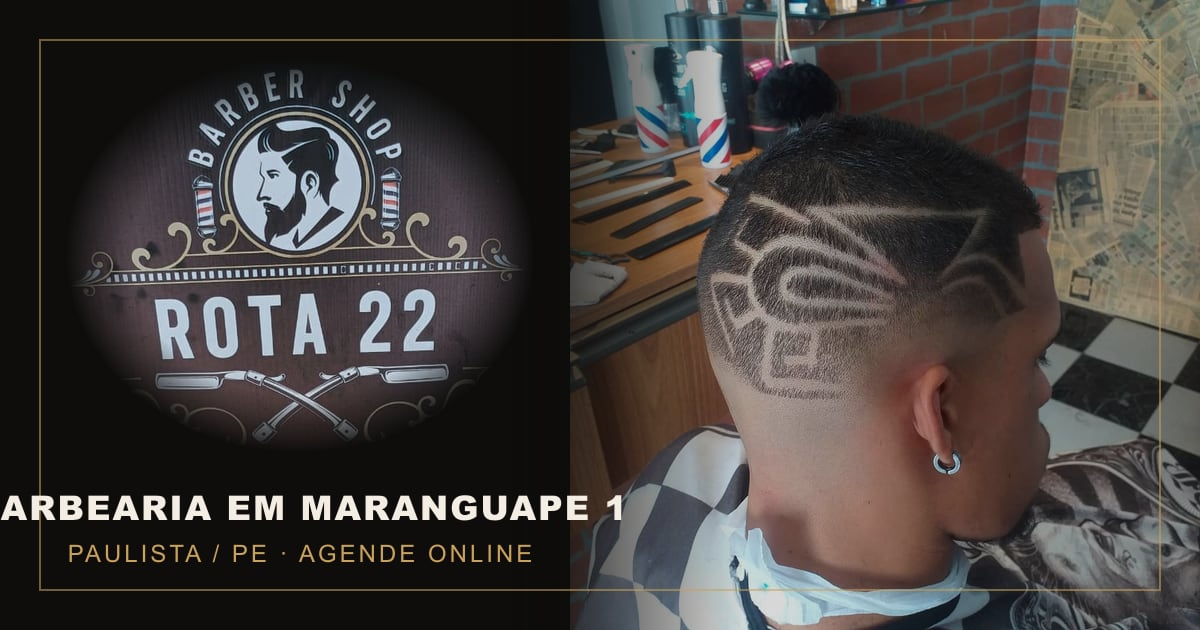
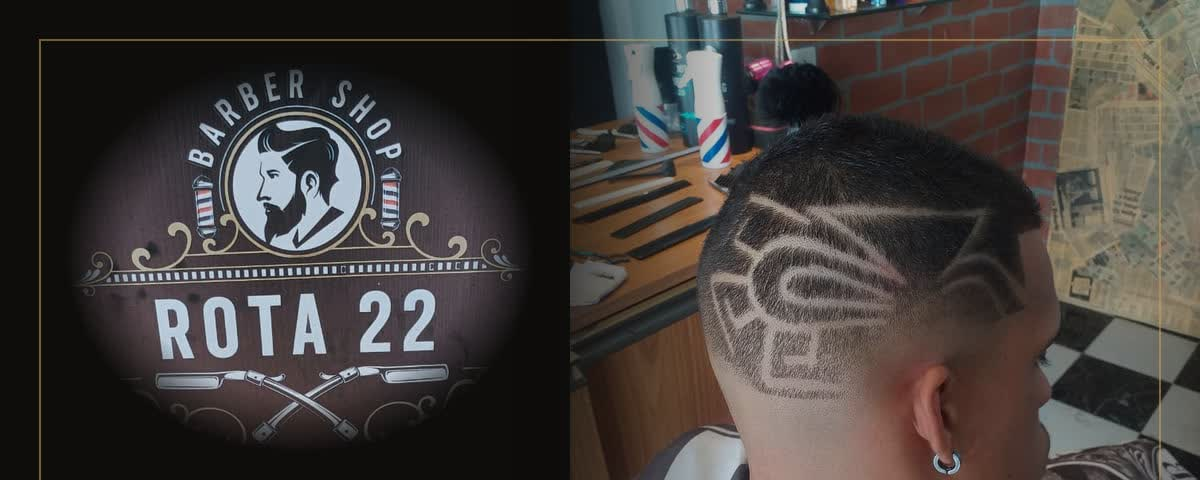
Redesign visual: paleta cinza+roxo, tags do hero focadas em resultado
- Troca o accent cyan por roxo #8b5cf6 (mesmo roxo já padrão do
  conteúdo da Larre.dev) sobre fundo cinza neutro, no lugar do
  azul-marinho + cyan neon anterior
- Reduz cursor customizado e densidade das partículas de fundo
- Tags flutuantes do hero deixam de mostrar stack técnica (JS/CSS/
  HTML/UI-UX) e passam a mostrar resultado pro negócio (+Vendas/
  +Agenda/+Clientes/+Presença)
- Destaque de resultado nos cards de projeto fica mais forte
  (maior, em negrito)
- Recorta a capa do Rota 22 pra remover a faixa de texto cortada
  ("ARBEARIA" em vez de "BARBEARIA")
- Reescreve a descrição do Rota 22 focada em resultado, não em
  feature técnica (tirado "painel administrativo completo")

diff --git a/css/style.css b/css/style.css
@@ -1,14 +1,14 @@
 /* ========== VARIÁVEIS ========== */
 :root {
-  --neon: #00e5ff;
-  --neon-dim: rgba(0, 229, 255, 0.15);
-  --neon-glow: 0 0 20px rgba(0, 229, 255, 0.5), 0 0 60px rgba(0, 229, 255, 0.2);
-  --bg: #050810;
-  --bg-2: #080d18;
+  --neon: #8b5cf6;
+  --neon-dim: rgba(139, 92, 246, 0.15);
+  --neon-glow: 0 0 20px rgba(139, 92, 246, 0.45), 0 0 60px rgba(139, 92, 246, 0.18);
+  --bg: #0e0e12;
+  --bg-2: #18181c;
   --bg-card: rgba(255, 255, 255, 0.03);
-  --bg-card-hover: rgba(0, 229, 255, 0.05);
-  --border: rgba(255, 255, 255, 0.07);
-  --border-neon: rgba(0, 229, 255, 0.3);
+  --bg-card-hover: rgba(139, 92, 246, 0.06);
+  --border: rgba(255, 255, 255, 0.08);
+  --border-neon: rgba(139, 92, 246, 0.35);
   --text: #e8eaf0;
   --text-muted: #6b7280;
   --text-dim: #9ca3af;
@@ -22,18 +22,18 @@
 
 /* LIGHT THEME */
 html[data-theme="light"] {
-  --bg: #f0f4ff;
-  --bg-2: #e8eeff;
+  --bg: #f4f4f6;
+  --bg-2: #e9e9ed;
   --bg-card: rgba(255, 255, 255, 0.8);
-  --bg-card-hover: rgba(0, 229, 255, 0.08);
+  --bg-card-hover: rgba(109, 40, 217, 0.08);
   --border: rgba(0, 0, 0, 0.08);
-  --border-neon: rgba(0, 150, 255, 0.4);
-  --text: #0f172a;
-  --text-muted: #64748b;
-  --text-dim: #475569;
-  --neon: #0066ff;
-  --neon-dim: rgba(0, 102, 255, 0.1);
-  --neon-glow: 0 0 20px rgba(0, 102, 255, 0.3);
+  --border-neon: rgba(109, 40, 217, 0.4);
+  --text: #18181b;
+  --text-muted: #71717a;
+  --text-dim: #52525b;
+  --neon: #6d28d9;
+  --neon-dim: rgba(109, 40, 217, 0.1);
+  --neon-glow: 0 0 20px rgba(109, 40, 217, 0.3);
 }
 
 /* ========== RESET ========== */
@@ -196,8 +196,8 @@ html[data-theme="light"] .preloader-logo { color: var(--text); }
   box-shadow: var(--neon-glow);
 }
 .cursor-follower {
-  width: 36px;
-  height: 36px;
+  width: 28px;
+  height: 28px;
   border: 1.5px solid var(--neon);
   border-radius: 50%;
   position: fixed;
@@ -206,7 +206,7 @@ html[data-theme="light"] .preloader-logo { color: var(--text); }
   z-index: 9998;
   transform: translate(-50%, -50%);
   transition: all 0.15s var(--ease);
-  opacity: 0.5;
+  opacity: 0.35;
 }
 @media (max-width: 900px), (pointer: coarse) {
   .cursor, .cursor-follower { display: none; }
@@ -797,13 +797,13 @@ html[data-theme="light"] .float-tag {
   align-items: flex-start;
   gap: 0.5rem;
   margin-bottom: 1.2rem;
-  padding: 0.6rem 0.75rem;
+  padding: 0.7rem 0.85rem;
   border-radius: 6px;
   background: var(--neon-dim);
   border: 1px solid var(--border-neon);
   color: var(--neon);
-  font-size: 0.82rem;
-  font-weight: 600;
+  font-size: 0.92rem;
+  font-weight: 700;
   line-height: 1.4;
 }
 .project-highlight i {

diff --git a/js/script.js b/js/script.js
@@ -31,7 +31,7 @@ const MEUS_PROJETOS = [
   },
   {
     titulo: "Rota 22 Barbershop",
-    descricao: "Site institucional com sistema de agendamento real para barbearia em Maranguape 1 (Paulista-PE): agenda com horários livres, confirmação por e-mail e painel administrativo completo.",
+    descricao: "Site para barbearia em Maranguape 1 (Paulista-PE): cliente escolhe o horário livre sozinho e recebe confirmação por e-mail, sem ninguém da barbearia precisar parar pra responder agenda no WhatsApp.",
     destaque: "Cliente agenda sozinho, sem ninguém precisar responder o WhatsApp",
     imagem: "assets/images/rota22-barbershop.jpg",
     urlProjeto: "https://rota22-barbershop.pages.dev/",
@@ -256,12 +256,12 @@ function initParticles() {
   if (typeof particlesJS !== "function" || !document.getElementById("particles-js")) return;
   particlesJS("particles-js", {
     particles: {
-      number: { value: 60, density: { enable: true, value_area: 900 } },
-      color: { value: "#00e5ff" },
+      number: { value: 28, density: { enable: true, value_area: 900 } },
+      color: { value: "#8b5cf6" },
       shape: { type: "circle" },
-      opacity: { value: 0.4, random: true },
-      size: { value: 2.5, random: true },
-      line_linked: { enable: true, distance: 140, color: "#00e5ff", opacity: 0.2, width: 1 },
+      opacity: { value: 0.3, random: true },
+      size: { value: 2, random: true },
+      line_linked: { enable: true, distance: 140, color: "#8b5cf6", opacity: 0.15, width: 1 },
       move: { enable: true, speed: 1.2, direction: "none", random: true, out_mode: "out" }
     },
     interactivity: {

diff --git a/index.html b/index.html
@@ -17,9 +17,9 @@
   <meta name="twitter:card" content="summary_large_image" />
 
   <link rel="icon" type="image/svg+xml" href="assets/favicon.svg" />
-  <link rel="mask-icon" href="assets/favicon.svg" color="#00e5ff" />
+  <link rel="mask-icon" href="assets/favicon.svg" color="#8b5cf6" />
   <link rel="apple-touch-icon" href="assets/images/perfil.jpg" />
-  <meta name="theme-color" content="#050810" />
+  <meta name="theme-color" content="#0e0e12" />
   <link rel="stylesheet" href="css/style.css" />
 
   <script type="application/ld+json">
@@ -168,11 +168,11 @@
             <div class="photo-glow"></div>
             <div class="photo-border-anim"></div>
           </div>
-          <!-- Floating tags -->
-          <div class="float-tag tag-1"><i class="fab fa-js"></i> JS</div>
-          <div class="float-tag tag-2"><i class="fab fa-css3-alt"></i> CSS</div>
-          <div class="float-tag tag-3"><i class="fas fa-paint-brush"></i> UI/UX</div>
-          <div class="float-tag tag-4"><i class="fab fa-html5"></i> HTML</div>
+          <!-- Floating tags: resultado pro negócio, não tecnologia -->
+          <div class="float-tag tag-1"><i class="fas fa-arrow-trend-up"></i> +Vendas</div>
+          <div class="float-tag tag-2"><i class="fas fa-calendar-check"></i> +Agenda</div>
+          <div class="float-tag tag-3"><i class="fas fa-comments"></i> +Clientes</div>
+          <div class="float-tag tag-4"><i class="fas fa-globe"></i> +Presença</div>
         </div>
 
       </div>
